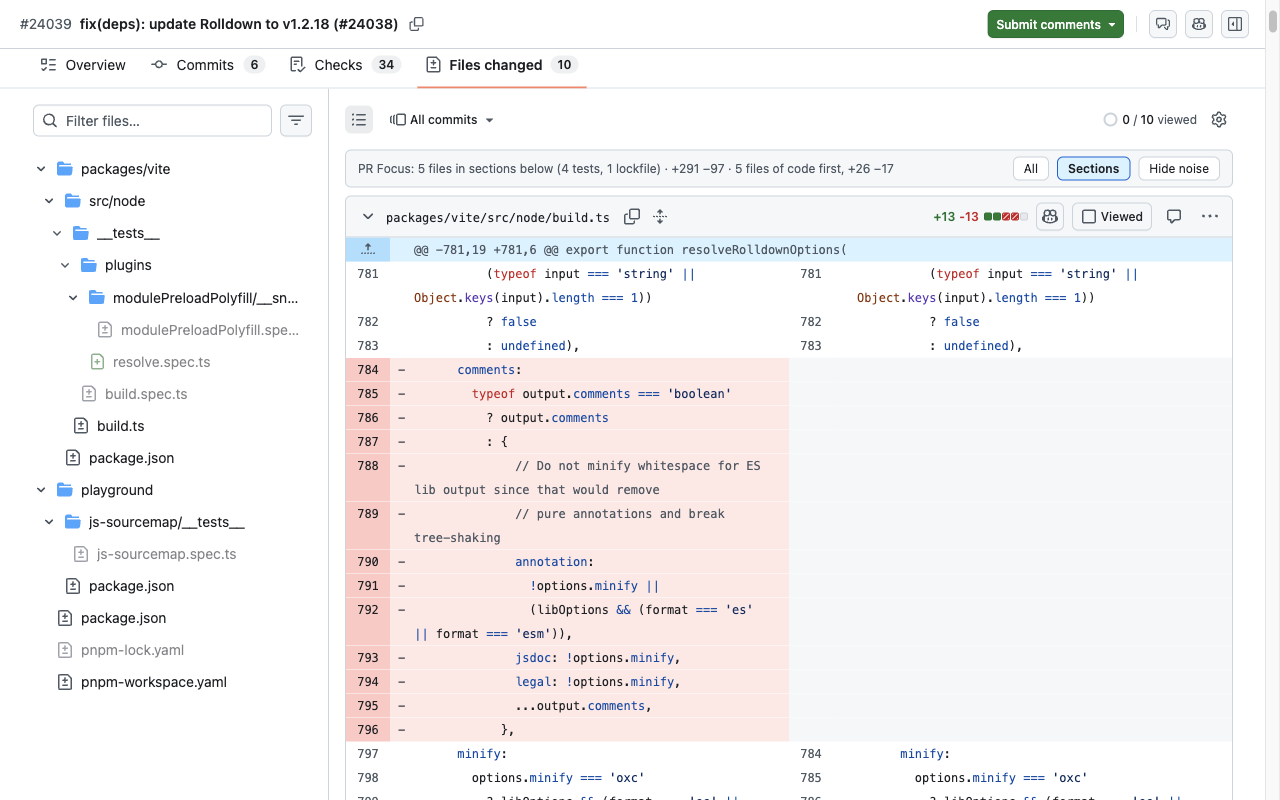
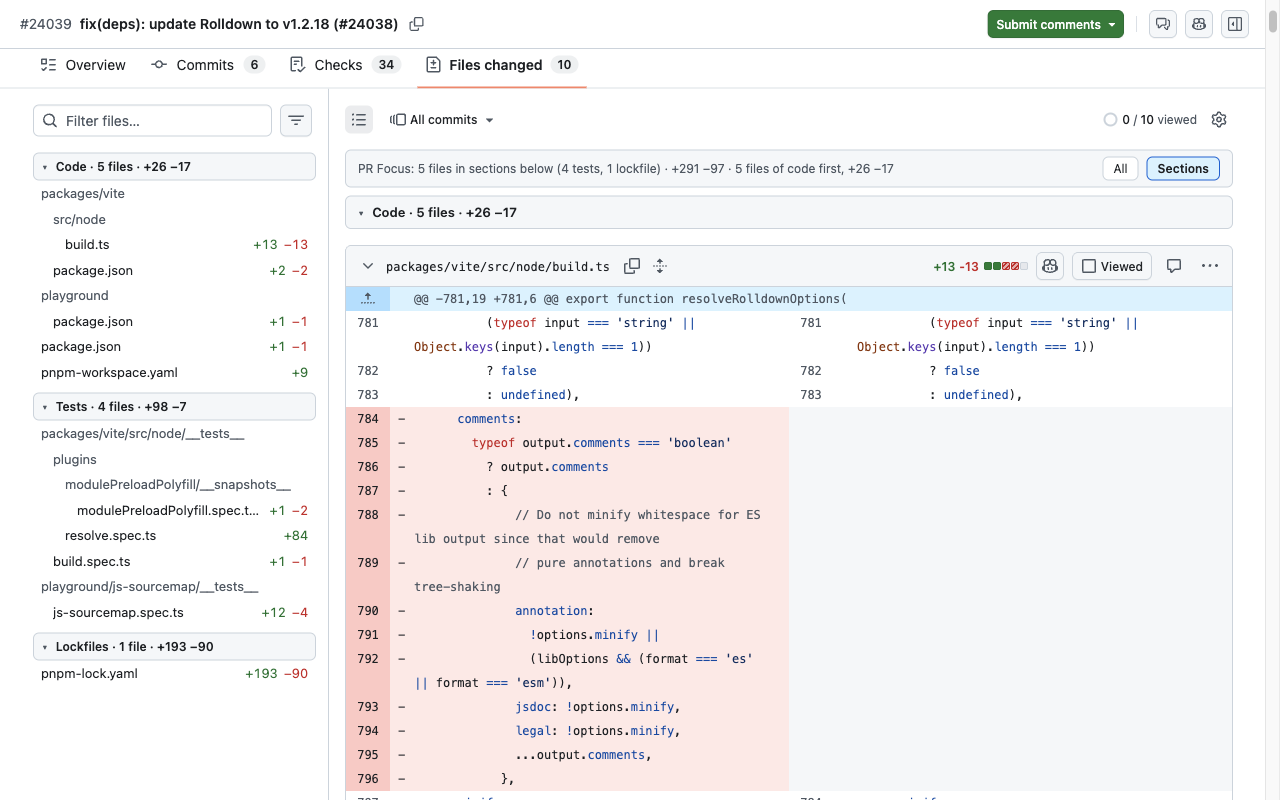
docs: two modes and the sectioned file list in the README, listing and screenshots
Store screenshots 3 to 5 are retaken from vitejs/vite#24039 with the loaded
extension.

diff --git a/README.md b/README.md
@@ -19,13 +19,20 @@ A Chromium extension (Manifest V3) that hides noise pull requests on GitHub's PR
 
 ### In a PR's changed files
 
-A bar above the changed files counts the tests and noise in the diff and offers three ways to show them. The choice is remembered for every PR, and **Alt+Shift+F** steps through it.
+A bar above the changed files counts the tests and noise in the diff and offers two ways to show the files. The choice is remembered for every PR, and **Alt+Shift+F** switches it.
 
 | Mode | What you see | Bar text |
 | --- | --- | --- |
 | **All** (default) | GitHub's own view. | `PR Focus: tests & noise in 5 of 10 files (4 tests, 1 lockfile) · +291 −97` |
-| **Sections** | The code first, then a section for each kind of noise. Each heading shows the file count and line counts (`Tests · 4 files · +98 −7`) and folds its files away when clicked. | `5 files in sections below (4 tests, 1 lockfile) · +291 −97 · 5 files of code first, +26 −17` |
-| **Hide noise** | Only the code. Noise files and their file tree entries are hidden. | `5 files hidden (4 tests, 1 lockfile) · +291 −97 · 5 files left, +26 −17` |
+| **Sections** | The code first, then a section for each kind of noise, in the diff and in the file list on the left. | `5 files in sections below (4 tests, 1 lockfile) · +291 −97 · 5 files of code first, +26 −17` |
+
+In **Sections**:
+
+- **The diff** has a heading above each section with its file count and line counts (`Code · 5 files · +26 −17`, `Tests · 4 files · +98 −7`). The sections come in the order Code, Tests, Lockfiles, Generated, Custom.
+- **The file list on the left** is PR Focus's own list in the place of GitHub's file tree, with the same sections and headings. Inside a section the files are a folder tree like GitHub's: a chain of folders with nothing else in them is one row (`packages/vite/src/node/__tests__`). Each file shows its added and removed lines. A click goes to the file through GitHub's own link, so the page moves as it does from GitHub's tree.
+- **A heading folds its section** in both places at once. Folding Code brings the tests to the top.
+- **GitHub's filter still works.** The filter field and its options take files out of the page, and the sections and the list follow.
+- **Viewed files** are dimmed and ticked in the list.
 
 Four kinds of file count as noise. Each built-in kind can be switched off in the options.
 
@@ -35,8 +42,6 @@ Four kinds of file count as noise. Each built-in kind can be switched off in the
 - **Custom**: your own globs, one per line. They read like `.gitignore` lines: `*` stays inside a folder, `**` crosses folders, a glob without a slash matches at any depth (`*.md`), a glob with a slash starts at the repository root (`src/legacy/**`), and a folder covers everything in it (`docs/`).
 
 A file belongs to the first kind it matches, in the order above. Switching a kind off shows its files even when GitHub marks them as generated.
-
-The file tree follows along. In **Hide noise** the tree entries of noise files go too, and so does a folder that holds nothing else. In **Sections** they are dimmed where they are, because the tree is nested by folder and cannot be regrouped by kind. A folded section hides its tree entries.
 
 ### Pages covered
 
@@ -60,7 +65,7 @@ Stored in `chrome.storage.sync`, so they follow your browser profile. Only the s
 | PRs opened by bots | on | |
 | Draft PRs | on | Never your own drafts. |
 | Titles matching | empty | Invalid patterns are ignored and flagged. A pattern that matches every title is flagged too. |
-| Tests & noise in a PR's changed files | All | All, Sections or Hide noise. The same choice as the buttons above the changed files. |
+| Tests & noise in a PR's changed files | All | All or Sections. The same choice as the buttons above the changed files. |
 | Tests | on | |
 | Lockfiles | on | |
 | Generated files | on | Includes files GitHub marks as generated. |
@@ -78,11 +83,10 @@ Stored in `chrome.storage.sync`, so they follow your browser profile. Only the s
 
 - `src/rules.js`: pure rule logic (which rows and files are noise, globs, author parsing, Linear keys, bar text). No DOM. Unit-tested.
 - `src/github.js`: **every GitHub DOM selector**, plus the functions that read a PR row, a PR page, the changed files and the file tree.
-- `src/content.js`: hides rows, marks changed files, draws the bars, section headings and Linear buttons. Re-applied on DOM changes through a `MutationObserver` (batched to one pass per animation frame, so a background tab catches up when it is shown). Each pass removes any bar, heading, button or hidden mark it did not confirm, so a failed read shows rows instead of hiding them.
-- `src/content.css`: the rules that hide and move things. For changed files, `content.js` only marks each file with its kind. The CSS hides or reorders marked files only while the bar (or the section's heading) is on the page, so if the bar cannot be drawn, every file shows in GitHub's order.
-- **Sections does not move any element.** GitHub's list of files is a flex column, so CSS `order` puts the code first and each kind below its heading. The headings are the only elements added to the list. React keeps rendering its own children in its own order, and lazily loaded diffs keep loading.
-- `src/options.html` / `src/options.js`: the popup and options page (same file).
-- `icons/`: `icon.svg` is the source of the extension icon, a cat head crossed by one highlighted row (an original drawing, not GitHub's mark). The 16, 32, 48 and 128 px PNGs are renders of it. The 128 px one is 96 px artwork with 16 px of transparent padding, as the Chrome Web Store asks. `design/icon-candidates/` keeps the three candidates that were compared; the icon is `b-cat-row.svg`.
+- `src/content.js`: hides rows, marks changed files, draws the bars, section headings, the sectioned file list and Linear buttons. Re-applied on DOM changes through a `MutationObserver` (batched to one pass per animation frame, so a background tab catches up when it is shown). Each pass removes any bar, heading, list, button or hidden mark it did not confirm, so a failed read shows rows instead of hiding them.
+- `src/content.css`: the rules that hide and move things. For changed files, `content.js` only marks each file with its kind. The CSS reorders marked files, folds a section and hides GitHub's file tree only while the bar, the section's heading or our own file list is on the page. If one of them cannot be drawn, the page is GitHub's again.
+- **Sections does not move any of GitHub's elements.** GitHub's list of files is a flex column, so CSS `order` puts the code first and each kind below its heading. The headings are the only elements added to that list. React keeps rendering its own children in its own order, and lazily loaded diffs keep loading.
+- **GitHub's file tree is hidden, not changed.** Our list is inserted right before it, and one CSS rule hides whatever follows our list. The list is built from the file headers GitHub has on the page (they are all there before the diffs load) plus the files only the tree lists.
 
 No build step and no dependencies.
 
@@ -110,9 +114,10 @@ Check by hand before each release, with the extension loaded:
 4. A PR page with a Linear link: the Linear button sits next to the title.
 5. The same public list signed out: turn on **Allow in Incognito** on the extension's details page and open the list in an incognito window. Rows are still hidden.
 6. A repository where you can tick rows: select all, and the bar says the hidden rows are shown because selected.
-7. The changed files of a PR with tests and a lockfile, for example `github.com/vitejs/vite/pull/24039/files`: the bar counts them. **Sections** puts the code first with a `Tests` and a `Lockfiles` heading below, and a heading folds its files. **Hide noise** hides them in the diff and the file tree. **All** brings everything back.
-8. On that PR, go to the Commits tab and back to Files changed through GitHub's own tabs: the bar and the mode carry over. Open another PR: the mode is the same.
-9. The same PR signed out (the older files view): the three modes work there too.
+7. The changed files of a PR with tests and a lockfile, for example `github.com/vitejs/vite/pull/24039/files`: the bar counts them. **Sections** puts the code first with `Code`, `Tests` and `Lockfiles` headings, and the file list on the left shows the same three sections in place of GitHub's tree. **All** brings GitHub's view and tree back.
+8. In Sections: click a file in the list and the page goes to it. Fold `Code` in the list and the code folds in the diff too. Type in GitHub's filter field and both follow.
+9. On that PR, go to the Commits tab and back to Files changed through GitHub's own tabs: the bar and the mode carry over. Open another PR: the mode is the same.
+10. The same PR signed out (the older files view): Sections works there too.
 
 When you load the unpacked folder for development, switch off any other copy of PR Focus first (the Web Store one). Two copies remove each other's bars.
 
@@ -122,11 +127,13 @@ When you load the unpacked folder for development, switch off any other copy of 
 - **Dashboard authors.** `/pulls/inbox` and `/pulls/search` show no author link, so the author is read from the row text (`owner/repo#123 • author • Updated`, `owner/repo#123 · author opened`). If GitHub changes that line, bot PRs stop being hidden there and drafts are shown.
 - **Changed files markup.** Files are read from GitHub's file headers: the path, the `Lines changed: 19 additions & 2 deletions` text for screen readers, and the diff anchor that ties a file to its tree entry. The newer view is found through `data-testid="progressive-diffs-list"`, the older one through `#files .file`. If GitHub renames those, the bar does not appear and every file shows. Checked on 2026-11-24, signed in (newer view, split layout) and signed out (older view, unified layout).
 - **Sections depends on GitHub's list being a flex column.** If GitHub lays the list out another way, files stay in GitHub's order and the headings gather at the top. In the older view the CSS flattens GitHub's batch containers (`.js-diff-progressive-container`, `copilot-diff-entry`) to get one column.
-- **Sections changes what you see, not GitHub's order.** GitHub's own next and previous file keys and the tab order follow GitHub's order, so they jump between sections.
+- **Our file list depends on where GitHub's tree is.** It is found through `ul[aria-label="File Tree"]`. When GitHub's tree is not on the page (you closed the file tree panel), there is no list, and the diff is still in sections.
+- **The list is simpler than GitHub's tree.** Its folders do not fold, it has no file type icons and no marker for the file you are at, and it is not a keyboard tree: Tab moves through the files. All shows GitHub's tree again.
+- **Sections changes what you see, not GitHub's order.** GitHub's own next and previous file keys and the tab order in the diff follow GitHub's order, so they jump between sections.
 - **Folded sections are not remembered.** They open again when the tab reloads. The mode is remembered.
+- **Viewed is read from the newer view only.** The older view's Viewed checkbox is not read. Viewed state was checked by setting the button's state in the page, not by marking a real file as viewed.
 - **Counts cover the files GitHub has put on the page.** The newer view lists every file up front. The older view adds files in batches while you scroll, so its counts grow.
 - **Generated files are known while GitHub shows its note.** GitHub marks a generated file by showing "Some generated files are not rendered by default" in place of the diff. After you load that diff the note is gone, and the file counts as generated only if a glob names it.
-- **A link to a hidden file does not show it.** In Hide noise, a link that points at a test file lands on a page where that file is hidden. The bar says how many files are hidden.
 - **Alt+Shift+F** was checked on macOS against GitHub's own shortcut list (GitHub uses Option+Shift+R, not F). It was not checked on Windows or Linux. It does nothing while you type in a field.
 - **Hidden rows still count toward GitHub's page size.** A page of 25 can show fewer than 25 PRs, and the Open/Closed counts include hidden PRs.
 - **Linear keys** are a pattern (`ABC-123`) with a small deny list (`CVE-`, `UTF-`, `SHA-`, `FIX-`, `RELEASE-`, ...). Without team keys, other look-alikes can produce a button to an issue that does not exist. List rows only see the title.
@@ -136,7 +143,8 @@ When you load the unpacked folder for development, switch off any other copy of 
 ## Rules considered and skipped
 
 - **A `spec/` folder as tests**: it holds RSpec tests in Ruby projects and API specifications elsewhere. `*_spec.rb` is covered; add `spec/` as a custom glob if you want the folder.
-- **Regrouping the file tree by kind**: the tree is nested by folder, so it would have to be rebuilt. Noise entries are dimmed in place.
+- **Regrouping GitHub's own file tree**: its items are nested by folder and belong to React, so moving them is unsafe. Sections hides the tree and draws its own list instead.
+- **A Hide noise mode** that hid the noise files altogether: removed before 0.3.0 was released. Folding a section does the same for one kind at a time.
 
 - **Labels** (for example `dependencies`): labels are not rendered in GitHub's compact list density, so the rule would silently stop working there.
 - **Extra author list** (your own bot accounts without a `[bot]` suffix, or Copilot): easy to add later; for now a title pattern covers most of them.

diff --git a/store/listing.md b/store/listing.md
@@ -12,9 +12,9 @@ Version 0.2.0 was submitted to the Chrome Web Store. The text below is for 0.3.0
 
 PR Focus
 
-**Summary** (the manifest `description`, 123 of 132 characters)
+**Summary** (the manifest `description`, 126 of 132 characters)
 
-Hides bot and draft PRs on GitHub PR lists, sorts out tests and noise files in a PR's diff, and links PRs to Linear issues.
+Hides bot and draft PRs on GitHub PR lists, shows a PR's diff in sections with the code first, and links PRs to Linear issues.
 
 **Detailed description**
 
@@ -29,9 +29,9 @@ On pull request lists
 
 In a pull request's changed files
 - Counts the tests, lockfiles and generated files in the diff, with their added and removed lines.
-- Sections: shows the code first, then a section each for tests, lockfiles and generated files. A section's heading shows its size and folds it away.
-- Hide noise: hides those files in the diff and in the file tree, and says how many files and lines are left.
-- All: GitHub's own view. This is the default. Your choice is remembered, and Alt+Shift+F steps through the three.
+- Sections: shows the code first, then a section each for tests, lockfiles and generated files. A heading shows each section's size and folds it away.
+- The file list on the left is grouped into the same sections, with each file's added and removed lines. A click goes to the file.
+- All: GitHub's own view. This is the default. Your choice is remembered, and Alt+Shift+F switches it.
 - You choose what counts: switch each kind off, or add your own file patterns such as *.md or docs/.
 
 Linear
@@ -77,9 +77,9 @@ No
 | Store icon, 128x128 | `icons/icon-128.png` | Ready. 96 px artwork with 16 px of transparent padding. |
 | Screenshot 1, 1280x800 | `store/screenshots/1-noise-hidden.png` | Ready. Bot and draft PRs hidden, with the count bar. |
 | Screenshot 2, 1280x800 | `store/screenshots/2-shown-dimmed.png` | Ready. The same list after **Show them**. |
-| Screenshot 3, 1280x800 | `store/screenshots/3-diff-sections.png` | Ready. A PR's changed files in **Sections**: the bar and the code first. |
+| Screenshot 3, 1280x800 | `store/screenshots/3-diff-sections.png` | Ready. A PR's changed files in **Sections**: the bar, the sectioned file list and the code first. |
 | Screenshot 4, 1280x800 | `store/screenshots/4-diff-section-heading.png` | Ready. The same PR further down: the `Tests` heading and the test files. |
-| Screenshot 5, 1280x800 | `store/screenshots/5-diff-noise-hidden.png` | Ready. The same PR in **Hide noise**. |
+| Screenshot 5, 1280x800 | `store/screenshots/5-diff-code-folded.png` | Ready. The same PR with `Code` folded, so the tests come first. |
 | Small promo tile, 440x280 | | Optional, not made. |
 | Marquee promo tile, 1400x560 | | Optional, not made. |
 
@@ -93,7 +93,7 @@ There is no screenshot of the Linear button yet. It needs a public repository wh
 
 **Single purpose**
 
-Declutters GitHub pull requests: hides noise pull requests on lists, sorts tests and noise files out of a pull request's diff, and links each pull request to its Linear issue.
+Declutters GitHub pull requests: hides noise pull requests on lists, shows a pull request's changed files in sections with the code first, and links each pull request to its Linear issue.
 
 **Permission justification: storage**
 
@@ -101,7 +101,7 @@ Saves the user's settings: which pull requests to hide, a title pattern, how tes
 
 **Permission justification: host permission (content script on https://github.com/*)**
 
-Reads pull request list rows, pull request page headers and the file names of a pull request's changed files on github.com, to hide noise pull requests, to hide or regroup tests and noise files, and to add links to Linear issues. It is declared for all github.com pages because GitHub moves between pages without reloading, so a script limited to pull request URLs would not be there when the user navigates to one. On other pages it reads nothing.
+Reads pull request list rows, pull request page headers and the file names of a pull request's changed files on github.com, to hide noise pull requests, to group the changed files into sections, and to add links to Linear issues. It is declared for all github.com pages because GitHub moves between pages without reloading, so a script limited to pull request URLs would not be there when the user navigates to one. On other pages it reads nothing.
 
 **Remote code**
 
@@ -109,7 +109,7 @@ No, I am not using remote code. All code ships in the package. The extension mak
 
 **Data usage**
 
-The extension collects nothing. None of the data types in the form apply: no personally identifiable information, health, financial, authentication, personal communications, location, web history, user activity or website content is collected or transmitted. The content script reads pull request rows and changed file names inside the page to decide what to hide, and that information never leaves the browser.
+The extension collects nothing. None of the data types in the form apply: no personally identifiable information, health, financial, authentication, personal communications, location, web history, user activity or website content is collected or transmitted. The content script reads pull request rows and changed file names inside the page to decide what to hide and how to group the files, and that information never leaves the browser.
 
 All three certifications apply:
 
@@ -147,12 +147,12 @@ The tab is meant for extensions that need credentials. PR Focus needs none, so t
 ```
 1. Sign in to GitHub. (It also works signed out, on public repositories.)
 2. Open https://github.com/dependabot/dependabot-core/pulls. Bot and draft pull requests are hidden. A bar above the list says how many.
-3. Open https://github.com/vitejs/vite/pull/24039/files. A bar above the files counts tests and lockfiles. "Sections" moves them below the code. "Hide noise" hides them. "All" restores GitHub's view.
+3. Open https://github.com/vitejs/vite/pull/24039/files. A bar above the files counts tests and lockfiles. "Sections" groups the diff and the file list by kind. "All" restores GitHub's view.
 4. Settings are in the toolbar popup.
 No account, no network requests, no remote code.
 ```
 
-The store limits this field to 500 characters. The text above is 497.
+The store limits this field to 500 characters. The text above is 488.
 
 ## Before submitting
 

diff --git a/PRIVACY.md b/PRIVACY.md
@@ -4,7 +4,7 @@ Last updated: 2026-11-24
 
 PR Focus does not collect, transmit, sell or share any data.
 
-- **What it reads.** On github.com pull request lists and pull request pages, it reads what the page already shows: each pull request's title, author, draft state and branch name, the signed-in user's login, and links to Linear issues. In a pull request's changed files it also reads each file's path and line counts. It uses them to decide which rows and files to hide or regroup and which Linear buttons to add. This happens inside your browser, and nothing is sent anywhere.
+- **What it reads.** On github.com pull request lists and pull request pages, it reads what the page already shows: each pull request's title, author, draft state and branch name, the signed-in user's login, and links to Linear issues. In a pull request's changed files it also reads each file's path and line counts. It uses them to decide which rows to hide, how to group the files and which Linear buttons to add. This happens inside your browser, and nothing is sent anywhere.
 - **What it stores.** Your settings only: which rules are on, the title pattern, how tests and noise files are shown and your custom file patterns, the Linear workspace and the team keys. They are kept in Chrome's sync storage, which Chrome syncs between your own browsers when you have sync turned on. The developer has no access to them.
 - **What it does not do.** No network requests, no analytics, no tracking, no remote code, no GitHub or Linear token.
 - **Linear buttons** are plain links. Opening one takes you to linear.app, where Linear's own privacy policy applies.
